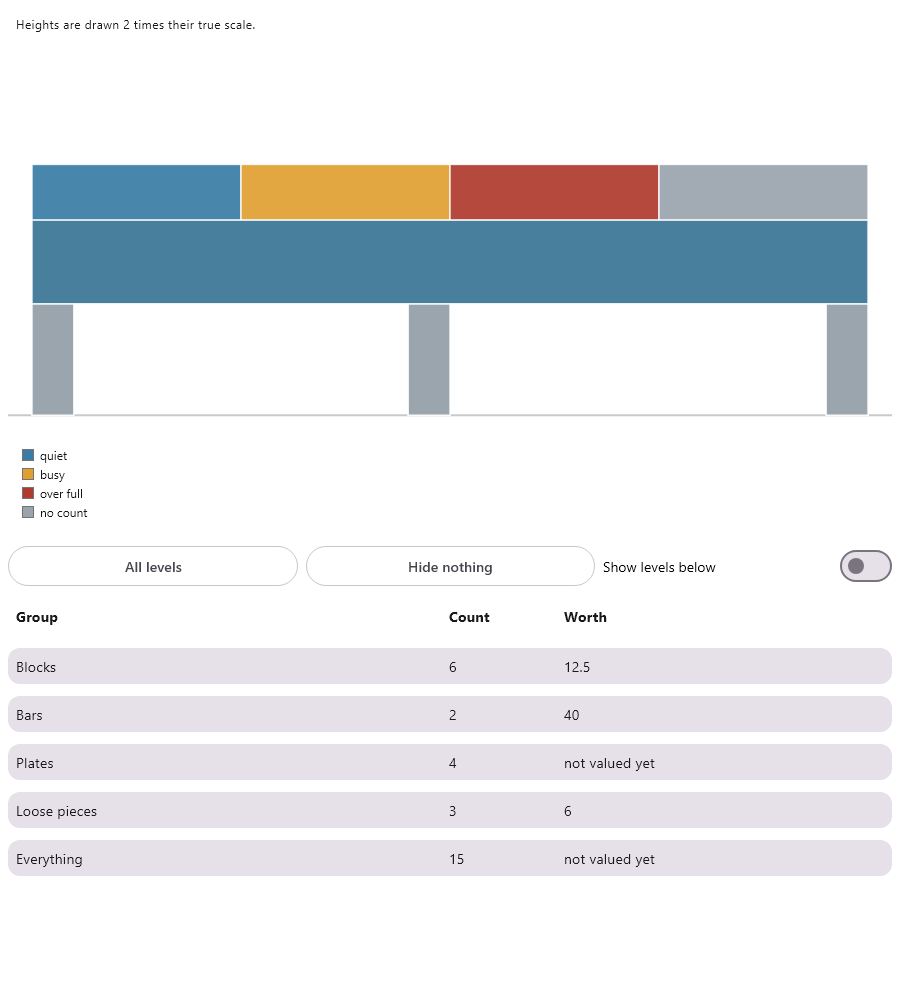
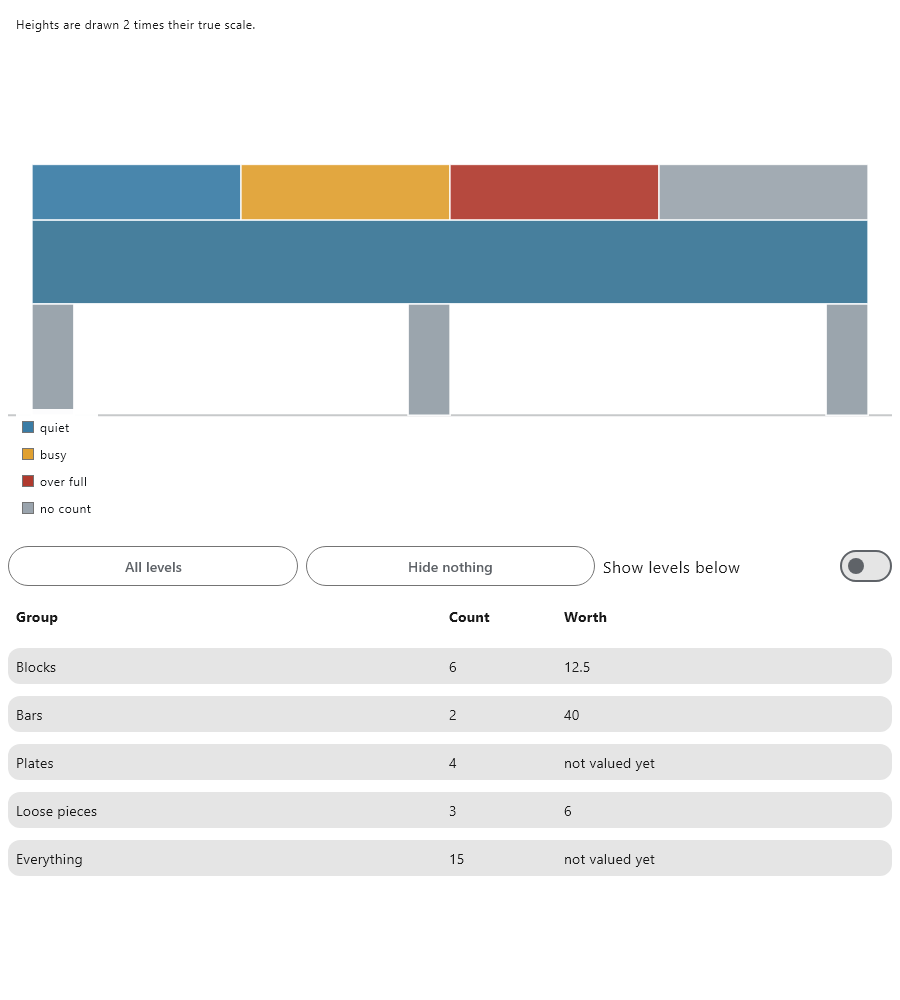
fix(theme): containers and their text take their colours from one scheme chosen by the theme
RenderSpec set the spec theme for text but left the Material colour
scheme at its light default, so on the dark theme a card, list row card,
modal, unselected chip, text field, toggle label and select button drew
near-white text on light surfaces or dark text on the dark page (1.02 to
2.10:1). RenderSpec and a node's theme scope now derive one Material
scheme from the theme: the host's scheme when it is the same kind (so a
host's accent, type and shapes survive), else the default of that kind,
with every surface, container, outline and content colour taken from
ground, ink and muted; LocalContentColor is the theme's ink.

Every container text is checked at 4.5:1 or better against what is
behind it on both themes, the select popup and the modal included.
driveScreen gains boundsOfText, which also finds a field's contents.

The review pictures change: cards are neutral grey instead of the
default lavender, and text with no style of its own now takes the Material
body style a host's MaterialTheme already gave it (the toggle label and
legend rows are larger).

Changed region(s): [[0.0, 0.403, 0.0933, 0.527], [0.6533, 0.558, 0.8089, 0.589], [0.9333, 0.558, 0.9644, 0.589]]

diff --git a/packages/kotlin-compose/src/desktopTest/kotlin/ai/factoredui/compose/renderer/ThemeContrastTest.kt b/packages/kotlin-compose/src/desktopTest/kotlin/ai/factoredui/compose/renderer/ThemeContrastTest.kt
@@ -1,0 +1,119 @@
+package ai.factoredui.compose.renderer
+
+import ai.factoredui.compose.crawl.DrivenScreen
+import ai.factoredui.compose.crawl.driveScreen
+import ai.factoredui.compose.schema.Spec
+import androidx.compose.ui.unit.DpRect
+import kotlinx.serialization.json.Json
+import java.io.ByteArrayInputStream
+import javax.imageio.ImageIO
+import kotlin.math.pow
+import kotlin.test.Test
+import kotlin.test.assertTrue
+
+private val json = Json { ignoreUnknownKeys = true }
+
+private const val WCAG_TEXT = 4.5
+private const val WIDTH = 400
+private const val HEIGHT = 900
+
+private fun spec(root: String): Spec = json.decodeFromString(Spec.serializer(), """{"spec_version":1,"renderer_min":1,"root":$root}""")
+
+private val CONTAINERS = spec(
+    """
+    {"id":"page","type":"column","props":{"gap":8,"padding":8},"children":[
+      {"id":"card","type":"card","props":{"padding":12},"children":[{"id":"card-text","type":"text","props":{"value":"Card body text"}}]},
+      {"id":"rows","type":"list","props":{"data":"{rows}","stacked":true,"itemTemplate":
+        {"id":"row-card","type":"card","props":{"padding":12},"children":[{"id":"row-text","type":"text","props":{"value":"{row.name}"}}]}}},
+      {"id":"tabs","type":"tabs","props":{"items":["Tab one","Tab two"]},"children":[{"id":"tab-body","type":"text","props":{"value":"Tab body text"}},{"id":"tab-two","type":"text","props":{"value":"Second"}}]},
+      {"id":"chip-off","type":"chip","props":{"label":"Chip off"}},
+      {"id":"chip-on","type":"chip","props":{"label":"Chip on","selected":true}},
+      {"id":"field","type":"textinput","props":{"value":"{form.name}"}},
+      {"id":"switch","type":"toggle","props":{"label":"Toggle label text","value":false}},
+      {"id":"picker","type":"select","props":{"placeholder":"Pick one","value":"{form.choice}","options":[{"label":"First option","value":"a"},{"label":"Second option","value":"b"}]}}
+    ]}
+    """.trimIndent(),
+)
+
+private val MODAL = spec(
+    """{"id":"dialog","type":"modal","props":{"title":"Modal title"},"children":[{"id":"modal-text","type":"text","props":{"value":"Modal body text"}}]}""",
+)
+
+private val STORE = mapOf("rows" to listOf(mapOf("name" to "Row body text")), "form" to mapOf("name" to "Typed value text", "choice" to ""))
+
+private fun linear(channel: Int): Double = (channel / 255.0).let { if (it <= 0.03928) it / 12.92 else ((it + 0.055) / 1.055).pow(2.4) }
+
+private fun luminance(rgb: Int): Double = 0.2126 * linear((rgb shr 16) and 0xFF) + 0.7152 * linear((rgb shr 8) and 0xFF) + 0.0722 * linear(rgb and 0xFF)
+
+private fun contrastRatio(first: Int, second: Int): Double {
+    val (darker, lighter) = listOf(luminance(first), luminance(second)).sorted()
+    return (lighter + 0.05) / (darker + 0.05)
+}
+
+/** The background is the commonest colour in the text's middle band; the ink is the pixel that differs from it most. */
+private fun inkContrastIn(png: ByteArray, box: DpRect): Double {
+    val image = ImageIO.read(ByteArrayInputStream(png))
+    val height = box.bottom.value - box.top.value
+    val width = box.right.value - box.left.value
+    val rows = (box.top.value + height * 0.25).toInt()..(box.top.value + height * 0.75).toInt()
+    val columns = (box.left.value + width * 0.05).toInt()..(box.right.value - width * 0.05).toInt()
+    val pixels = rows.flatMap { y -> columns.map { x -> image.getRGB(x.coerceIn(0, image.width - 1), y.coerceIn(0, image.height - 1)) and 0xFFFFFF } }
+    val background = pixels.groupingBy { it }.eachCount().maxBy { it.value }.key
+    return pixels.maxOf { contrastRatio(it, background) }
+}
+
+private fun unreadableTexts(screen: DrivenScreen, texts: List<String>): List<String> {
+    val png = screen.frame().png
+    return texts.mapNotNull { text ->
+        val box = screen.boundsOfText(text) ?: return@mapNotNull "'$text' was not drawn"
+        val ratio = inkContrastIn(png, box)
+        if (ratio >= WCAG_TEXT) null else "'$text' ${"%.2f".format(ratio)}:1"
+    }
+}
+
+private fun assertTextsReadable(screen: DrivenScreen, texts: List<String>, theme: SpecTheme) {
+    val failures = unreadableTexts(screen, texts)
+    assertTrue(failures.isEmpty(), "on the ${if (theme.isDark) "dark" else "light"} theme, below $WCAG_TEXT:1 against what is behind them: $failures")
+}
+
+private val CONTAINER_TEXTS = listOf("Card body text", "Row body text", "Tab one", "Tab body text", "Chip off", "Chip on", "Typed value text", "Toggle label text", "Pick one")
+
+class ThemeContrastTest {
+
+    @Test
+    fun every_container_text_is_readable_on_the_light_theme() = assertContainersReadable(SpecTheme.LIGHT)
+
+    @Test
+    fun every_container_text_is_readable_on_the_dark_theme() = assertContainersReadable(SpecTheme.DARK)
+
+    @Test
+    fun the_select_popup_is_readable_on_the_light_theme() = assertSelectPopupReadable(SpecTheme.LIGHT)
+
+    @Test
+    fun the_select_popup_is_readable_on_the_dark_theme() = assertSelectPopupReadable(SpecTheme.DARK)
+
+    @Test
+    fun the_modal_is_readable_on_the_light_theme() = assertModalReadable(SpecTheme.LIGHT)
+
+    @Test
+    fun the_modal_is_readable_on_the_dark_theme() = assertModalReadable(SpecTheme.DARK)
+
+    private fun assertContainersReadable(theme: SpecTheme) {
+        driveScreen(CONTAINERS, STORE, WIDTH, HEIGHT, theme).use { screen ->
+            assertTextsReadable(screen, CONTAINER_TEXTS, theme)
+        }
+    }
+
+    private fun assertSelectPopupReadable(theme: SpecTheme) {
+        driveScreen(CONTAINERS, STORE, WIDTH, HEIGHT, theme).use { screen ->
+            screen.tapText("Pick one")
+            assertTextsReadable(screen, listOf("First option"), theme)
+        }
+    }
+
+    private fun assertModalReadable(theme: SpecTheme) {
+        driveScreen(MODAL, STORE, WIDTH, HEIGHT, theme).use { screen ->
+            assertTextsReadable(screen, listOf("Modal title", "Modal body text"), theme)
+        }
+    }
+}

diff --git a/packages/kotlin-compose/src/commonMain/kotlin/ai/factoredui/compose/renderer/SpecTheme.kt b/packages/kotlin-compose/src/commonMain/kotlin/ai/factoredui/compose/renderer/SpecTheme.kt
@@ -1,5 +1,8 @@
 package ai.factoredui.compose.renderer
 
+import androidx.compose.material3.ColorScheme
+import androidx.compose.material3.darkColorScheme
+import androidx.compose.material3.lightColorScheme
 import androidx.compose.runtime.staticCompositionLocalOf
 import androidx.compose.ui.graphics.Color
 import androidx.compose.ui.graphics.lerp
@@ -31,6 +34,39 @@ fun SpecTheme.tokenColor(name: String): Color? = when (name) {
     "ink" -> ink
     "muted" -> muted
     else -> null
+}
+
+private const val LOW_SURFACE_STEP = 0.03f
+private const val HIGH_SURFACE_STEP = 0.08f
+private const val HIGHEST_SURFACE_STEP = 0.10f
+
+private fun SpecTheme.surfaceAt(step: Float): Color = lerp(ground, ink, step)
+
+private fun isSchemeDark(scheme: ColorScheme): Boolean = scheme.background.luminance() < 0.5f
+
+/** The host's scheme if it is the theme's kind, else that kind's default, with every surface and content colour from the theme. */
+fun SpecTheme.colorScheme(host: ColorScheme): ColorScheme {
+    val family = if (isSchemeDark(host) == isDark) host else if (isDark) darkColorScheme() else lightColorScheme()
+    return family.copy(
+        background = ground,
+        onBackground = ink,
+        surface = ground,
+        onSurface = ink,
+        surfaceVariant = surfaceAt(SURFACE_STEP),
+        onSurfaceVariant = muted,
+        surfaceTint = ink,
+        surfaceBright = surfaceAt(HIGHEST_SURFACE_STEP),
+        surfaceDim = ground,
+        surfaceContainerLowest = ground,
+        surfaceContainerLow = surfaceAt(LOW_SURFACE_STEP),
+        surfaceContainer = surfaceAt(SURFACE_STEP),
+        surfaceContainerHigh = surfaceAt(HIGH_SURFACE_STEP),
+        surfaceContainerHighest = surfaceAt(HIGHEST_SURFACE_STEP),
+        inverseSurface = ink,
+        inverseOnSurface = ground,
+        outline = muted,
+        outlineVariant = hairline,
+    )
 }
 
 fun themeNamed(name: String?): SpecTheme? = when (name) {

diff --git a/packages/kotlin-compose/src/commonMain/kotlin/ai/factoredui/compose/renderer/RenderNode.kt b/packages/kotlin-compose/src/commonMain/kotlin/ai/factoredui/compose/renderer/RenderNode.kt
@@ -26,9 +26,8 @@ import androidx.compose.material3.ButtonDefaults
 import androidx.compose.material3.Card
 import androidx.compose.material3.CardDefaults
 import androidx.compose.material3.Divider
+import androidx.compose.material3.LocalContentColor
 import androidx.compose.material3.MaterialTheme
-import androidx.compose.material3.darkColorScheme
-import androidx.compose.material3.lightColorScheme
 import androidx.compose.material3.OutlinedButton
 import androidx.compose.material3.Text
 import androidx.compose.material3.TextButton
@@ -92,7 +91,7 @@ import coil3.svg.SvgDecoder
  */
 @Composable
 fun RenderSpec(root: SpecNode, context: RenderContext) {
-    CompositionLocalProvider(LocalSpecTheme provides context.theme) {
+    ThemeScope(context.theme) {
         RenderNode(node = root, context = context)
     }
 }
@@ -104,7 +103,7 @@ fun RenderSpec(root: SpecNode, context: RenderContext) {
  */
 @Composable
 fun RenderSpec(spec: Spec, context: RenderContext) {
-    CompositionLocalProvider(LocalSpecTheme provides context.theme) {
+    ThemeScope(context.theme) {
         Box(modifier = Modifier.fillMaxSize().background(context.theme.ground)) {
             if (spec.keybindings.isEmpty()) {
                 RenderNode(node = spec.root, context = context)
@@ -166,8 +165,8 @@ fun RenderNode(node: SpecNode, context: RenderContext) {
 
 @Composable
 private fun ThemeScope(theme: SpecTheme, content: @Composable () -> Unit) {
-    CompositionLocalProvider(LocalSpecTheme provides theme) {
-        MaterialTheme(colorScheme = if (theme.isDark) darkColorScheme() else lightColorScheme(), content = content)
+    MaterialTheme(colorScheme = theme.colorScheme(MaterialTheme.colorScheme)) {
+        CompositionLocalProvider(LocalSpecTheme provides theme, LocalContentColor provides theme.ink, content = content)
     }
 }
 

diff --git a/packages/kotlin-compose/src/desktopMain/kotlin/ai/factoredui/compose/crawl/DrivenScreen.kt b/packages/kotlin-compose/src/desktopMain/kotlin/ai/factoredui/compose/crawl/DrivenScreen.kt
@@ -103,9 +103,20 @@ class DrivenScreen internal constructor(
         return tapAt(centre.x, centre.y)
     }
 
+    /** Where the first drawn node showing [text], as a label or as the contents of a field, sits. */
+    fun boundsOfText(text: String): DpRect? {
+        settle()
+        val bounds = nodeShowing(text)?.boundsInRoot ?: return null
+        return DpRect(bounds.left.dp, bounds.top.dp, bounds.right.dp, bounds.bottom.dp)
+    }
+
+    private fun isShowing(node: androidx.compose.ui.semantics.SemanticsNode, text: String): Boolean =
+        node.config.getOrNull(SemanticsProperties.Text)?.any { it.text == text } == true ||
+            node.config.getOrNull(SemanticsProperties.EditableText)?.text == text
+
     private fun nodeShowing(text: String): androidx.compose.ui.semantics.SemanticsNode? {
         fun find(node: androidx.compose.ui.semantics.SemanticsNode): androidx.compose.ui.semantics.SemanticsNode? {
-            if (node.config.getOrNull(SemanticsProperties.Text)?.any { it.text == text } == true) return node
+            if (isShowing(node, text)) return node
             return node.children.firstNotNullOfOrNull(::find)
         }
         return scene.semanticsOwners.firstNotNullOfOrNull { find(it.unmergedRootSemanticsNode) }
